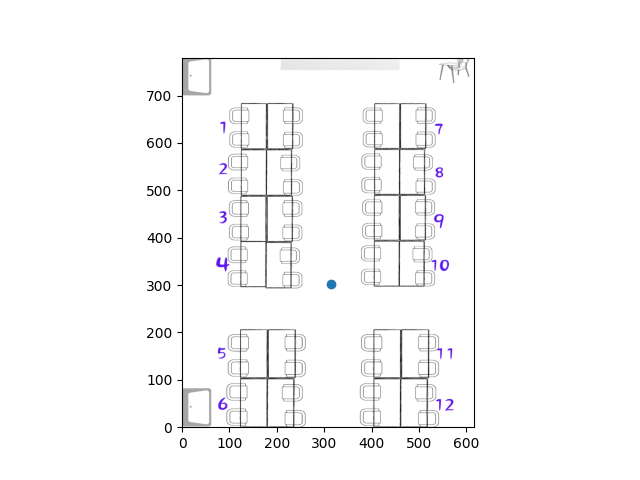
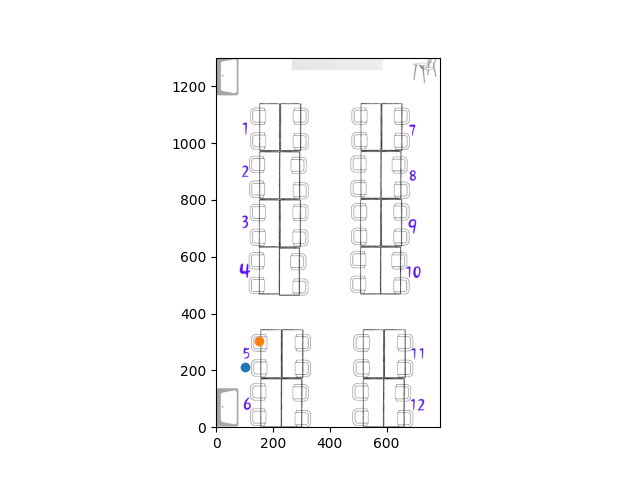
7676

diff --git a/距離1307.py b/距離1307.py
@@ -3,7 +3,7 @@ import random
 a=[]
 def distance1307():
     
-    '''
+    
     response = requests.get('https://norgay.center/php/vilsnodes.php?loadranging=1&project_id=1')
     str1 = response.text.split('Tag1307')
     str2= str1[1].split('"')
@@ -11,8 +11,8 @@ def distance1307():
     print(int(str3[0]))
     a.append(int(str3[0]))
     d1307=int(str3[0])
-    '''
     
-    d1307=int(random.randint(300,330))
+    
+    #d1307=int(random.randint(300,330))
     return d1307
     

diff --git a/距離1196.py b/距離1196.py
@@ -2,7 +2,7 @@ import requests
 import random
 a=[]
 def distance1196():
-    '''
+    
 
     response = requests.get('https://norgay.center/php/vilsnodes.php?loadranging=1&project_id=1')
     str1 = response.text.split('Tag1196')
@@ -11,10 +11,10 @@ def distance1196():
     print(int(str3[0]))
     a.append(int(str3[0]))
     d1196=int(str3[0])
-        '''
+        
 
 
-    d1196=int(random.randint(500,520))
+    #d1196=int(random.randint(500,520))
     return d1196,a
 
 

diff --git a/正式版點名系統.py b/正式版點名系統.py
@@ -28,7 +28,7 @@ def measure_and_display_result(n, root, image_label, result_label, coord_label):
         x196, y196, x1196, y1196, x11962, y11962 = 座標1196.xy1196(d1196, a1196)
         print(f"1196座標: ({x196}, {y196})")
       
-        if 280 < x196 < 320 and 1 < y196 < 2:   # 設定座位範圍
+        if 320 < x196 < 400 and 260 < y196 < 340:   # 設定座位範圍
             flag1196 = 1
             
         # 檢測 tag 1307  

diff --git a/角度1196.py b/角度1196.py
@@ -2,16 +2,16 @@ import requests
 import time
 def angle1196():
     
-    '''
+    
     response = requests.get('https://norgay.center/php/vilsnodes.php?loadranging=1&project_id=1')
     str1 = response.text.split('Tag1196')
     str2= str1[1].split('"')
     str3= str2[9].split('\\')
     a1196=float(str3[0])
     #print(a1196)
-        '''
+        
 
 
-    a1196=float(30)
+    #a1196=float(30)
     
     return a1196

diff --git a/角度1307.py b/角度1307.py
@@ -1,13 +1,13 @@
 import requests
 def angle1307():
-    '''
+    
     response = requests.get('https://norgay.center/php/vilsnodes.php?loadranging=1&project_id=1')
     str1 = response.text.split('Tag1307')
     str2= str1[1].split('"')
     str3= str2[9].split('\\')
     a1307=float(str3[0])
-    '''
+    
     
 
-    a1307=float(30)
+    #a1307=float(30)
     return a1307
